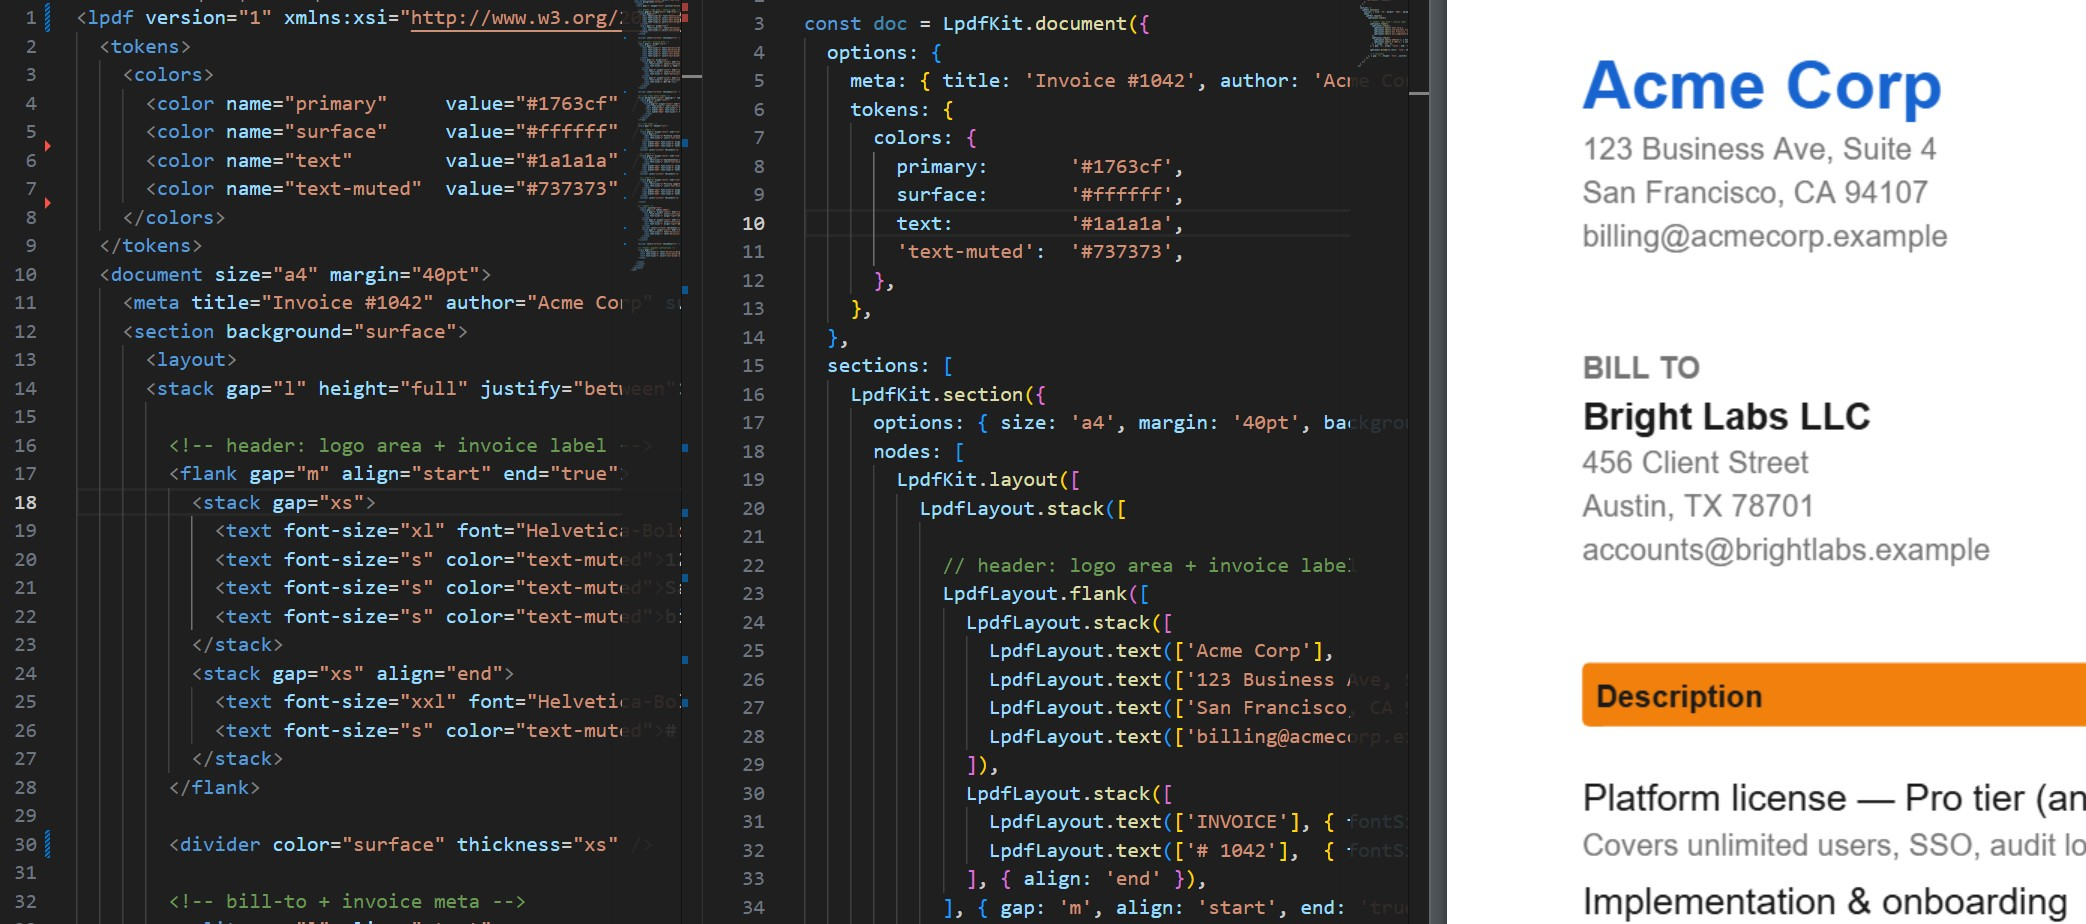
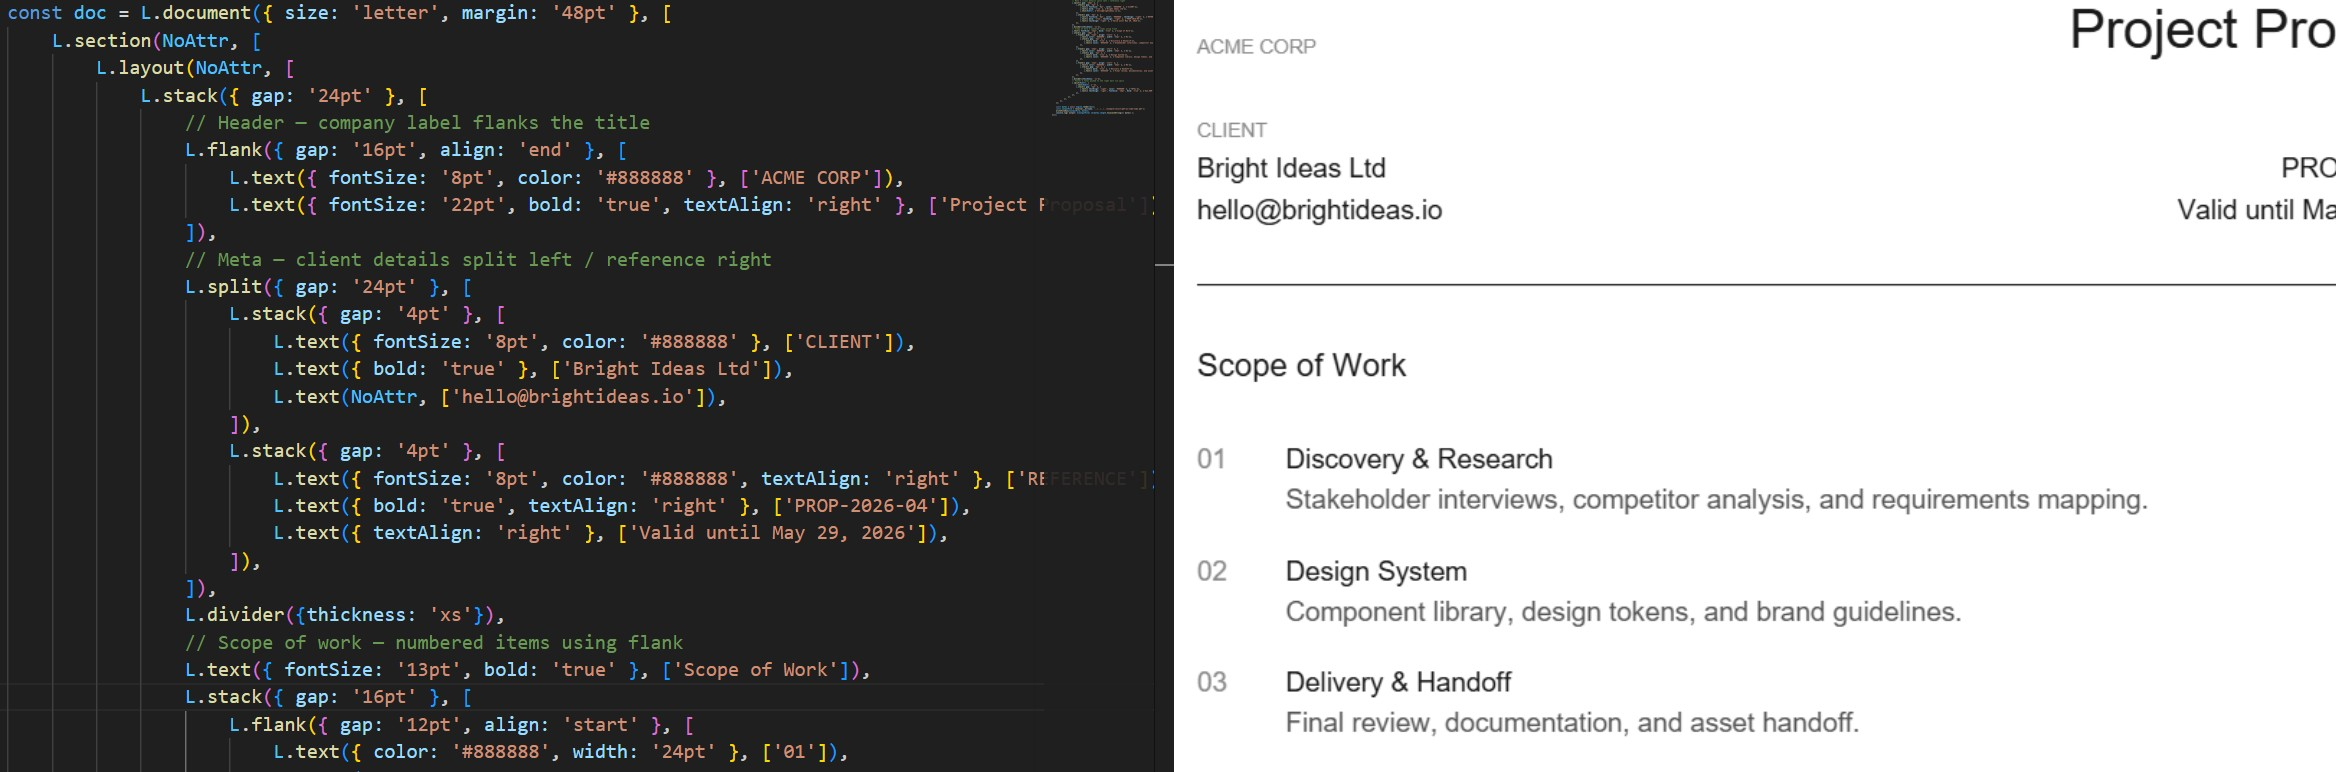
readme

diff --git a/pages/home/index.html b/pages/home/index.html
@@ -30,14 +30,14 @@
     <!-- Hero -->
     <section id="hero" class="section" style="border-top:none; padding-top:6rem; padding-bottom:6rem; position:relative; overflow:hidden;">
         <div style="position:absolute; inset:0; background-image:radial-gradient(circle at 50% 0%, color-mix(in oklch, var(--brand) 8%, transparent), transparent 60%); pointer-events:none;"></div>
-        <div class="container rl-stack rl-gap-xl rl-align-center" style="text-align:center; max-width:56rem; position:relative;">
+        <div class="container rl-stack rl-gap-xl rl-align-center" style="text-align:center; max-width:70rem; position:relative;">
             <span class="badge">
                 <span class="badge-dot"></span>
                 Node/JS · .NET · PHP · Python
             </span>
             <div class="rl-stack rl-gap-m">
-                <h1 class="section-title" style="font-size:clamp(2.3125rem, 5vw, 3.8125rem); letter-spacing:-.03em; line-height:1.04;">PDF as Code,<br><span style="color:var(--text-muted);">on every platform.</span></h1>
-                <p class="section-body" style="max-width:38rem; margin:0 auto;">Describe your document structure in code using the programming Kit or XML. <br />Every PDF is compact, pixel-perfect, and identical across platform.</p>
+                <h1 class="section-title" style="font-size:clamp(2.3125rem, 5vw, 3.8125rem); letter-spacing:-.03em; line-height:1.04;">PDF as Code<br><span style="color:var(--text-muted);">on every platform</span></h1>
+                <p class="section-body" style="max-width:38rem; margin:0 auto;">You describe a document as code or XML.<br />Lpdf renders a compact, pixel-perfect PDF — identical across platforms.</p>
             </div>
             <div class="rl-cluster rl-gap-m rl-justify-center">
                 <a href="/docs" class="btn btn-primary btn-lg">Read the docs</a>

diff --git a/README.md b/README.md
@@ -2,91 +2,52 @@
 
 # Lpdf
 
-**PDF as Code, on every platform.**
+**PDF as Code on every platform**
 
-Describe your document structure in code using the programming Kit or XML. Every PDF is compact, pixel-perfect, and identical across platforms.
+You describe a document as code or XML. Lpdf renders a compact, pixel-perfect PDF — identical across platforms.
 
----
+## SDKs
 
-## Architecture
-
-The core engine is written in Rust and compiled to two targets:
-
-- **WASM** — for Node.js and browser runtimes (embedded in the adapter package)
-- **WASI** — a portable `.wasm` binary for server runtimes (Python, PHP, .NET) via [Wasmtime](https://wasmtime.dev)
-
-All adapters expose the same two interfaces:
-
-- **`renderPdf(xml)`** — render a PDF from an XML document string
-- **Kit API** — build documents programmatically using `LpdfKit` and `LpdfLayout` without writing XML
-
-The XML schema is published at [`https://lpdf.io/schema/lpdf.xsd`](https://lpdf.io/schema/lpdf.xsd).
-
----
-
-## Adapters
+Lpdf runs on Node.js, browser, .NET, PHP, and Python. Under the hood, a single Rust core compiles to two targets: **WASM** (embedded in the JS SDK) and **WASI** (a portable binary for server runtimes via [Wasmtime](https://wasmtime.dev)).
 
 ### Node.js
 
-**[github.com/lpdfio/lpdf-js](https://github.com/lpdfio/lpdf-js)** · [npmjs.com/package/@lpdfio/lpdf](https://www.npmjs.com/package/@lpdfio/lpdf)
+[github.com/lpdfio/lpdf-js](https://github.com/lpdfio/lpdf-js)  -  [npmjs.com/package/@lpdfio/lpdf](https://www.npmjs.com/package/@lpdfio/lpdf)  -  [lpdf.io/docs/js](https://lpdf.io/docs/js)
 
 ```bash
 npm install @lpdfio/lpdf
 ```
 
-```js
-const { LpdfEngine } = require('@lpdfio/lpdf');
-const fs = require('node:fs');
+```ts
+import { L, NoAttr } from 'lpdf'
 
-const engine = new LpdfEngine();
-const xml = fs.readFileSync('document.xml', 'utf8');
-const pdf = await engine.renderPdf(xml);
-fs.writeFileSync('output.pdf', pdf);
+const engine = L.engine()
+
+const doc = L.document({ size: 'letter', margin: '48pt' }, [
+    L.section(NoAttr, [
+        L.layout(NoAttr, [
+            L.stack({ gap: '24pt' }, [
+                L.split(NoAttr, [
+                    L.text({ fontSize: '8pt', color: '#888888' }, ['ACME CORP']),
+                    L.text({ fontSize: '22pt', bold: 'true' }, ['Project Proposal']),
+                ]),
+                L.divider({ thickness: 'xs' }),
+                L.text({ fontSize: '13pt', bold: 'true' }, ['Scope of Work']),
+                L.flank({ gap: '12pt', align: 'start' }, [
+                    L.text({ color: '#888888', width: '24pt' }, ['01']),
+                    L.text(NoAttr, ['Discovery & Research']),
+                ]),
+            ]),
+        ]),
+    ]),
+])
+
+const pdf = await engine.render(doc)
 ```
-
----
-
-### Python
-
-**[github.com/lpdfio/lpdf-python](https://github.com/lpdfio/lpdf-python)** · [pypi.org/project/lpdfio-lpdf](https://pypi.org/project/lpdfio-lpdf/)
-
-```bash
-pip install lpdfio-lpdf
-```
-
-```python
-from lpdf import LpdfEngine
-
-engine = LpdfEngine()
-xml = open("document.xml").read()
-pdf = engine.render_pdf(xml)
-open("output.pdf", "wb").write(pdf)
-```
-
----
-
-### PHP
-
-**[github.com/lpdfio/lpdf-php](https://github.com/lpdfio/lpdf-php)** · [packagist.org/packages/lpdfio/lpdf](https://packagist.org/packages/lpdfio/lpdf)
-
-```bash
-composer require lpdfio/lpdf
-```
-
-```php
-use Lpdf\LpdfEngine;
-
-$engine = new LpdfEngine();
-$xml = file_get_contents('document.xml');
-$pdf = $engine->renderPdf($xml);
-file_put_contents('output.pdf', $pdf);
-```
-
----
 
 ### .NET
 
-**[github.com/lpdfio/lpdf-dotnet](https://github.com/lpdfio/lpdf-dotnet)** · [nuget.org/packages/Lpdfio.Lpdf](https://www.nuget.org/packages/Lpdfio.Lpdf)
+[github.com/lpdfio/lpdf-dotnet](https://github.com/lpdfio/lpdf-dotnet)  -  [nuget.org/packages/Lpdfio.Lpdf](https://www.nuget.org/packages/Lpdfio.Lpdf)  -  [lpdf.io/docs/dotnet](https://lpdf.io/docs/dotnet)
 
 ```bash
 dotnet add package Lpdfio.Lpdf
@@ -95,41 +56,100 @@ dotnet add package Lpdfio.Lpdf
 ```csharp
 using Lpdf;
 
-var engine = new LpdfEngine();
-var xml = await File.ReadAllTextAsync("document.xml");
-var pdf = await engine.RenderPdf(xml);
-await File.WriteAllBytesAsync("output.pdf", pdf);
-```
+var engine = L.Engine();
 
----
-
-## Kit API
-
-All adapters also expose a fluent builder API for constructing documents in code, without XML. Each adapter ships equivalent `LpdfKit` and `LpdfLayout` classes in its native style.
-
-```js
-// Node.js — same concepts apply across all adapters
-const { LpdfEngine, LpdfKit, LpdfLayout } = require('@lpdfio/lpdf');
-
-const engine = new LpdfEngine();
-const doc = LpdfKit.document({
-  sections: [
-    LpdfKit.section({
-      nodes: [
-        LpdfKit.layout([
-          LpdfLayout.stack([
-            LpdfLayout.text(['Invoice #1001'], { fontSize: '24pt', bold: 'true' }),
-            LpdfLayout.text(['Due: 2025-06-01']),
-          ]),
+var doc = L.Document(new() { Size = "letter", Margin = "48pt" }, [
+    L.Section(NoAttr, [
+        L.Layout(NoAttr, [
+            L.Stack(new() { Gap = "24pt" }, [
+                L.Split(NoAttr, [
+                    L.Text(new() { FontSize = "8pt", Color = "#888888" }, ["ACME CORP"]),
+                    L.Text(new() { FontSize = "22pt", Bold = "true" }, ["Project Proposal"]),
+                ]),
+                L.Divider(new() { Thickness = "xs" }),
+                L.Text(new() { FontSize = "13pt", Bold = "true" }, ["Scope of Work"]),
+                L.Flank(new() { Gap = "12pt", Align = "start" }, [
+                    L.Text(new() { Color = "#888888", Width = "24pt" }, ["01"]),
+                    L.Text(NoAttr, ["Discovery & Research"]),
+                ]),
+            ]),
         ]),
-      ],
-    }),
-  ],
-});
-const pdf = await engine.renderKit(doc);
+    ]),
+]);
+
+var pdf = await engine.Render(doc);
 ```
 
----
+### PHP
+
+[github.com/lpdfio/lpdf-php](https://github.com/lpdfio/lpdf-php)  -  [packagist.org/packages/lpdfio/lpdf](https://packagist.org/packages/lpdfio/lpdf)  -  [lpdf.io/docs/php](https://lpdf.io/docs/php)
+
+```bash
+composer require lpdfio/lpdf
+```
+
+```php
+use Lpdf\L;
+use const Lpdf\NoAttr;
+
+$engine = L::engine();
+
+$doc = L::document(new DocumentAttr(size: 'letter', margin: '48pt'), [
+    L::section(NoAttr, [
+        L::layout(NoAttr, [
+            L::stack(new StackAttr(gap: '24pt'), [
+                L::split(NoAttr, [
+                    L::text(new TextAttr(fontSize: '8pt', color: '#888888'), ['ACME CORP']),
+                    L::text(new TextAttr(fontSize: '22pt', bold: 'true'), ['Project Proposal']),
+                ]),
+                L::divider(new DividerAttr(thickness: 'xs')),
+                L::text(new TextAttr(fontSize: '13pt', bold: 'true'), ['Scope of Work']),
+                L::flank(new FlankAttr(gap: '12pt', align: 'start'), [
+                    L::text(new TextAttr(color: '#888888', width: '24pt'), ['01']),
+                    L::text(NoAttr, ['Discovery & Research']),
+                ]),
+            ]),
+        ]),
+    ]),
+]);
+
+$pdf = $engine->render($doc);
+```
+
+### Python
+
+[github.com/lpdfio/lpdf-python](https://github.com/lpdfio/lpdf-python)  -  [pypi.org/project/lpdfio-lpdf](https://pypi.org/project/lpdfio-lpdf/)  -  [lpdf.io/docs/python](https://lpdf.io/docs/python)
+
+```bash
+pip install lpdfio-lpdf
+```
+
+```python
+from lpdf import L, NoAttr
+
+engine = L.engine()
+
+doc = L.document(DocumentAttr(size='letter', margin='48pt'), [
+    L.section(NoAttr, [
+        L.layout(NoAttr, [
+            L.stack(StackAttr(gap='24pt'), [
+                L.split(NoAttr, [
+                    L.text(TextAttr(font_size='8pt', color='#888888'), ['ACME CORP']),
+                    L.text(TextAttr(font_size='22pt', bold='true'), ['Project Proposal']),
+                ]),
+                L.divider(DividerAttr(thickness='xs')),
+                L.text(TextAttr(font_size='13pt', bold='true'), ['Scope of Work']),
+                L.flank(FlankAttr(gap='12pt', align='start'), [
+                    L.text(TextAttr(color='#888888', width='24pt'), ['01']),
+                    L.text(NoAttr, ['Discovery & Research']),
+                ]),
+            ]),
+        ]),
+    ]),
+])
+
+pdf = engine.render(doc)
+```
 
 ## VS Code Extension
 
@@ -137,10 +157,11 @@ const pdf = await engine.renderKit(doc);
 
 Preview, design, and export PDFs directly in VS Code — entirely offline. Supports live XML preview and PDF export via the command palette.
 
----
-
 ## Docs
 
-[lpdf.io/docs](https://lpdf.io/docs) · [lpdf.io](https://lpdf.io)
+[lpdf.io/docs](https://lpdf.io/docs)
 
 
+--
+
+Dual-licensed: Community License (free) and Commercial License (paid). See [LICENSE](LICENSE) for full terms.
